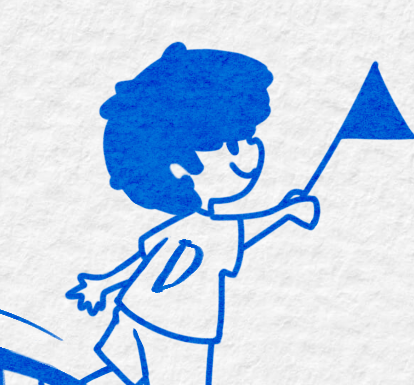
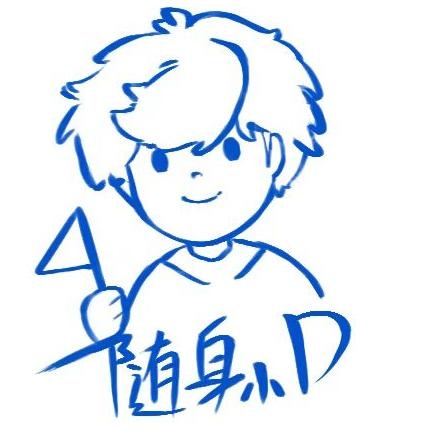
优化

diff --git a/src/stores/modules/useChatStore.ts b/src/stores/modules/useChatStore.ts
@@ -6,6 +6,7 @@ import { ws } from "@/utils";
 import pinia, { useUserStore } from "@/stores";
 import { GetTime } from "@/utils";
 import { useAudioStop } from "@/hooks/useAudio";
+import { appearanceList as List, defaultAppearance } from "@/settings";
 
 const userStore = useUserStore(pinia);
 export const useChatStore = defineStore("chatStore", () => {
@@ -15,6 +16,8 @@ export const useChatStore = defineStore("chatStore", () => {
   const isStop = ref(false);
   const wsInstance = ref<ws<Message>>();
   const isMute = ref(false);
+  const appearanceList = ref(List);
+  const appearanceIndex = ref(defaultAppearance);
 
   //TODO 持久化
   function init() {
@@ -120,16 +123,23 @@ export const useChatStore = defineStore("chatStore", () => {
     }
   }
 
+  function changeAppearance() {
+    appearanceIndex.value =
+      ++appearanceIndex.value % appearanceList.value.length;
+  }
   return {
     sendText,
     isMute,
     getChatList,
     // typingWhere,
     isTyping,
+    appearanceIndex,
     chatList,
     // typeComplete,
     isStop,
+    appearanceList,
     stopChat,
     newChat,
+    changeAppearance,
   };
 });

diff --git a/src/stores/modules/useMapStore.ts b/src/stores/modules/useMapStore.ts
@@ -60,6 +60,7 @@ export const useMapStore = defineStore("mapStore", () => {
     },
   ]);
   const currentMarker = ref<Position>();
+
   async function getLocation() {
     try {
       const res = await uni.getLocation({
@@ -112,11 +113,37 @@ export const useMapStore = defineStore("mapStore", () => {
 
   function getPoint() {}
 
+  function reset() {
+    if (polyline.value.length === 0) {
+      uni
+        .showToast({
+          title: "暂无路线数据",
+          icon: "none",
+        })
+        .then();
+    } else {
+      uni.showModal({
+        title: "是否重置路线？",
+        success: (res) => {
+          res.confirm &&
+            (polyline.value = []) &&
+            uni
+              .showToast({
+                title: "重置路线成功",
+                icon: "none",
+              })
+              .then();
+        },
+      });
+    }
+  }
+
   return {
     scale,
     markers,
     polyline,
     position,
+    reset,
     getLocation,
     getMarkers,
     pointList,

diff --git a/src/pages_sub/default/pages/appearance/appearance.vue b/src/pages_sub/default/pages/appearance/appearance.vue
@@ -1,7 +1,26 @@
 <template>
-  <view> </view>
+  <view class="h-screen w-screen grid grid-rows-[1fr_auto] grid-cols-1">
+    <view class="flex justify-center items-center">
+      <ChatAppearance />
+    </view>
+    <view class="p-12">
+      <button
+        @tap="chatStore.changeAppearance"
+        class="p-2 flex justify-center items-center bg-[--diy-color-primary] text-white rounded-lg"
+      >
+        切换形象
+      </button>
+      <view :style="{ height: safeArea + 'px' }" class="w-screen" />
+    </view>
+  </view>
 </template>
 
-<script setup lang="ts"></script>
+<script setup lang="ts">
+import ChatAppearance from "@/components/ChatAppearance/ChatAppearance.vue";
+import { useChatStore } from "@/stores/modules/useChatStore";
+
+const chatStore = useChatStore();
+const { safeArea } = uni.getWindowInfo();
+</script>
 
 <style scoped lang="scss"></style>

diff --git a/src/pages/check/check.vue b/src/pages/check/check.vue
@@ -1,0 +1,24 @@
+<template>
+  <view class="w-screen h-screen bg-gray-200">
+    <view class="bg-white w-screen top-0 left-0 z-[60] fixed">
+      <view :style="{ height: `${menuButtonTop}px`, marginBottom: '2.5rem' }" />
+    </view>
+    <view
+      class="fixed w-screen top-0 left-0 z-[70]"
+      :style="{ paddingTop: `${menuButtonTop}px` }"
+    >
+      <view
+        class="text-center relative text-base font-bold flex justify-center items-center"
+      >
+        打卡
+      </view>
+    </view>
+    <view :style="{ height: `${menuButtonTop}px` }" class="mt-[4.5rem]" />
+  </view>
+</template>
+
+<script setup lang="ts">
+const { top: menuButtonTop } = uni.getMenuButtonBoundingClientRect();
+</script>
+
+<style scoped lang="scss"></style>

diff --git a/src/components/ChatWelcome/ChatWelcome.vue b/src/components/ChatWelcome/ChatWelcome.vue
@@ -1,10 +1,10 @@
 <template>
   <view>
     <view
-      class="flex justify-center items-center h-56 w-64 m-auto"
+      class="flex justify-center items-center w-full min-h-64"
       @tap="divAppearance"
     >
-      形象待定......
+      <ChatAppearance />
     </view>
     <view class="p-4">
       <ant-welcome
@@ -28,7 +28,7 @@ import {
   AntdMiniPromptsCustomEventType,
   AntdMiniPromptsItem,
 } from "@/types/chat";
-
+import ChatAppearance from "@/components/ChatAppearance/ChatAppearance.vue";
 const props = defineProps<{
   onSend: (text: string) => void;
 }>();

diff --git a/src/pages/login/login.vue b/src/pages/login/login.vue
@@ -8,9 +8,10 @@
         hover-class="btn-hover"
         @tap="login"
       >
+        <uni-icons type="weixin" size="2rem" color="#fff" class="mr-1" />
         <text class="font-medium text-base">微信一键登录</text>
       </button>
-      <wd-divider> 其他登录方式</wd-divider>
+      <ant-divider text="其他登录方式" lineColor="#333" />
       <view class="w-full flex flex-col justify-center items-center">
         <button
           class="border border-solid border-black w-10 h-10 rounded-full flex items-center justify-center"

diff --git a/src/pages/index/index.vue b/src/pages/index/index.vue
@@ -28,6 +28,12 @@
     <view class="z-20 mb-44 mr-4">
       <button
         class="w-12 h-12 bg-white flex justify-center items-center rounded-sm mb-4"
+        @tap="mapStore.reset"
+      >
+        <image src="/static/map/reset.svg" style="height: 2rem; width: 2rem" />
+      </button>
+      <button
+        class="w-12 h-12 bg-white flex justify-center items-center rounded-sm mb-4"
         @tap="mapStore.getLocation"
       >
         <image

diff --git a/src/components/ChatAppearance/ChatAppearance.vue b/src/components/ChatAppearance/ChatAppearance.vue
@@ -1,0 +1,17 @@
+<template>
+  <view class="w-screen flex justify-center">
+    <image
+      :src="chatStore.appearanceList[chatStore.appearanceIndex]"
+      style="width: 65%"
+      mode="widthFix"
+    />
+  </view>
+</template>
+
+<script setup lang="ts" name="ChatAppearance">
+import { useChatStore } from "@/stores/modules/useChatStore";
+
+const chatStore = useChatStore();
+</script>
+
+<style scoped lang="scss"></style>

diff --git a/src/settings.ts b/src/settings.ts
@@ -1,2 +1,7 @@
 export const rem = 16;
 export const mapScale = 18.5;
+export const appearanceList = [
+  "https://shiina-mahiru.cn/download/appearance_female.jpg",
+  "https://shiina-mahiru.cn/download/appearance_male.jpg",
+];
+export const defaultAppearance = 0;
